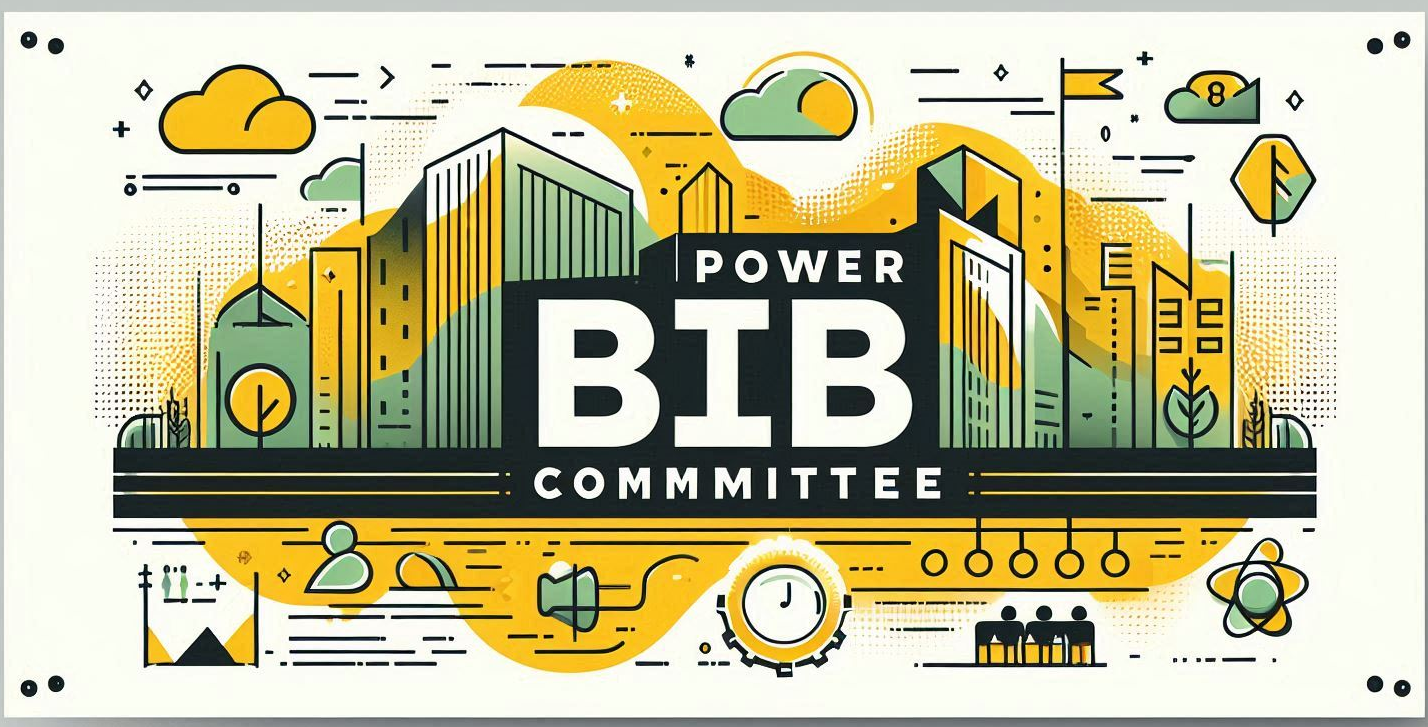
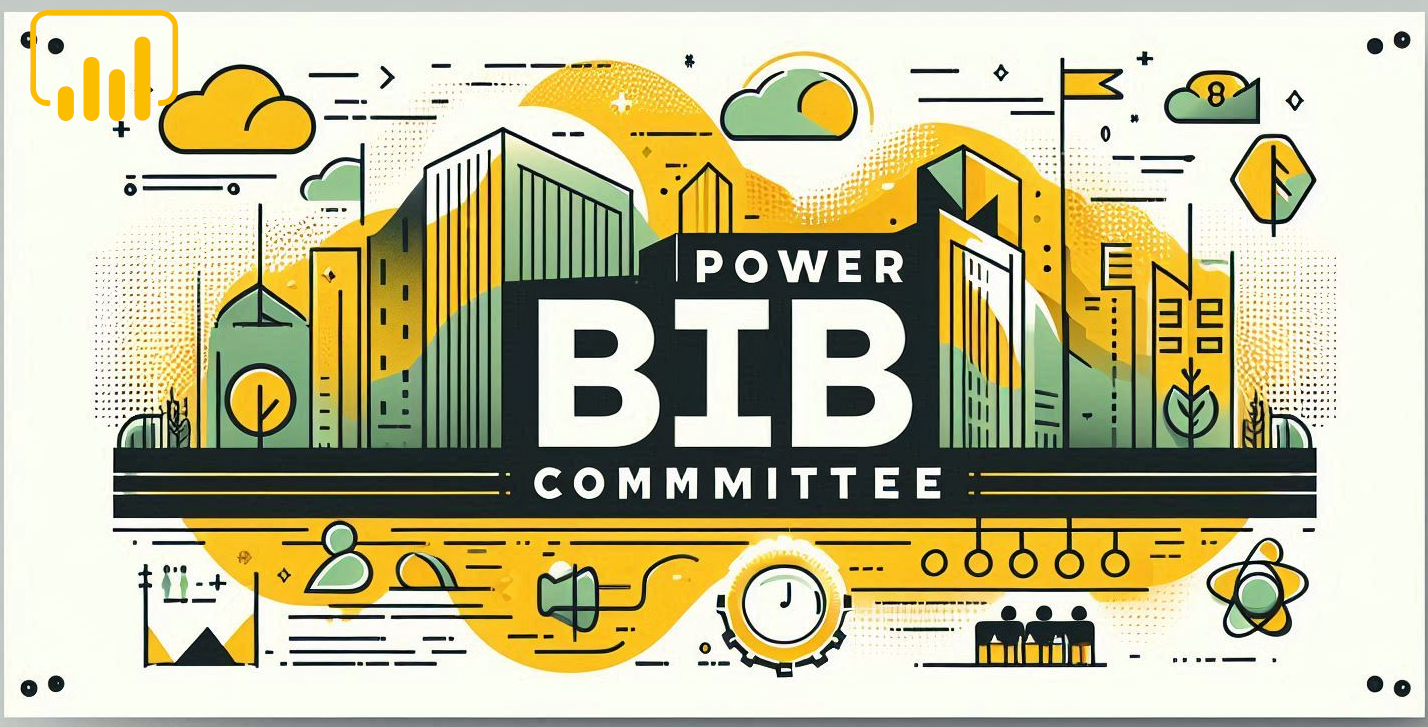
:car:

Changed region(s): [[0.0, 0.0, 0.1232, 0.1816]]

diff --git a/Comite de Power BI.md b/Comite de Power BI.md
@@ -1,5 +1,5 @@
 # **Comite de Power BI**
-<img src="img/aa.png" alt="Power BI" width="700" />
+<img src="img/bas.png" alt="Power BI" width="700" />
 
 ____
 
